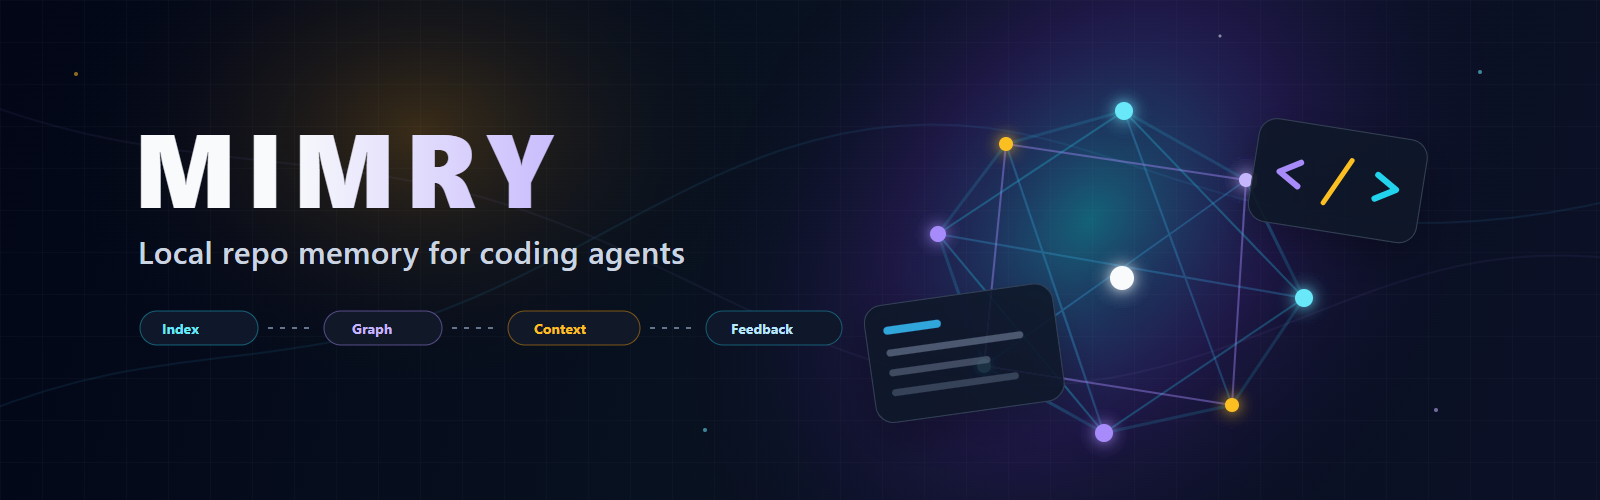
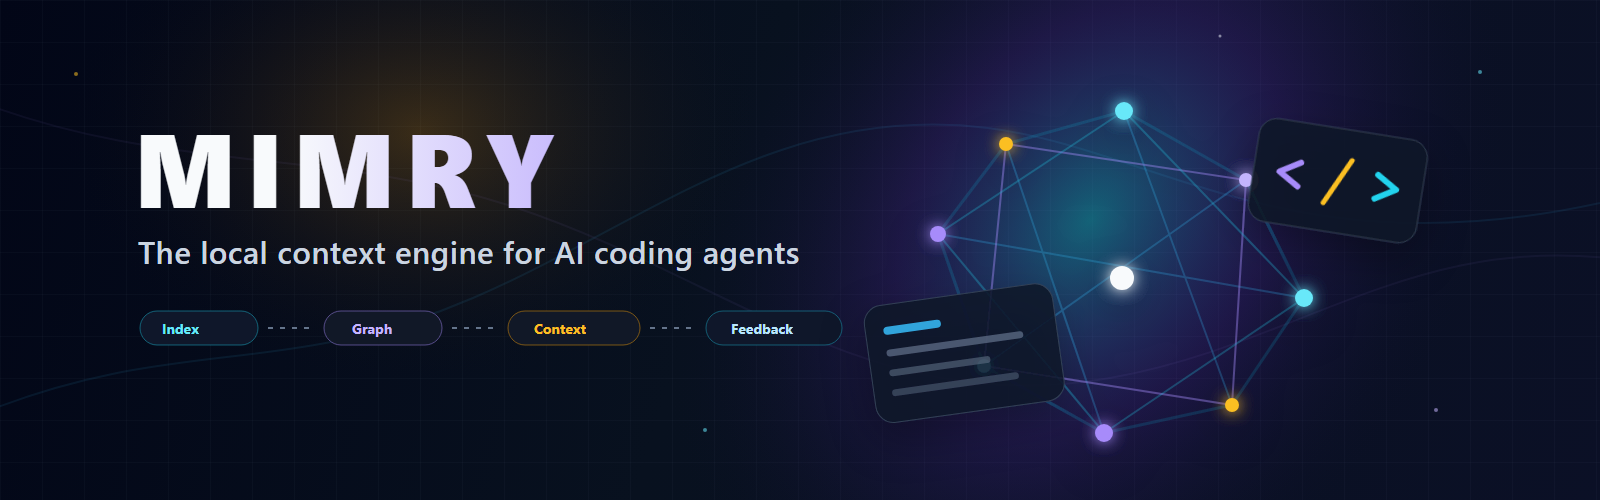
Introduce MIMRY as the local context engine for AI coding agents
The README, site, banner, PyPI summary, server.json, AUR package and plugin metadata now use the new tagline. The skill text is unchanged so existing installs stay current.

Part of #63

Changed region(s): [[0.0625, 0.48, 0.5, 0.54]]

diff --git a/site/index.html b/site/index.html
@@ -3,7 +3,7 @@
 <head>
 <meta charset="utf-8">
 <meta name="viewport" content="width=device-width, initial-scale=1">
-<title>MIMRY: local repo memory for AI coding agents</title>
+<title>MIMRY: the local context engine for AI coding agents</title>
 <meta name="description" content="MIMRY is a free, local CLI and MCP server that tells AI coding agents which files matter for a task. Ranked files, context packs and a code graph from your own repo. Install with uv tool install mimry.">
 <link rel="canonical" href="https://jbacalso24.github.io/mimry/">
 <meta name="google-site-verification" content="ZduZBC_Q0CTAzp5e7DwJC84TlEKnLSE44ITm3hVpD3A">
@@ -11,7 +11,7 @@
 <meta name="theme-color" content="#0E1828" media="(prefers-color-scheme: dark)">
 <meta property="og:type" content="website">
 <meta property="og:site_name" content="MIMRY">
-<meta property="og:title" content="MIMRY: local repo memory for AI coding agents">
+<meta property="og:title" content="MIMRY: the local context engine for AI coding agents">
 <meta property="og:description" content="Tell your coding agent which files matter. A local CLI and MCP server for Claude Code, Codex and other agents.">
 <meta property="og:url" content="https://jbacalso24.github.io/mimry/">
 <meta property="og:image" content="https://raw.githubusercontent.com/jbacalso24/mimry/main/assets/banner.png">
@@ -29,7 +29,7 @@ try { var t = localStorage.getItem("theme"); if (t === "light" || t === "dark") 
   "@type": "SoftwareApplication",
   "name": "MIMRY",
   "alternateName": "mimry",
-  "description": "Local repo memory for AI coding agents: a CLI and MCP server that ranks the files that matter for a task and writes context packs from your own codebase.",
+  "description": "The local context engine for AI coding agents: a CLI and MCP server that ranks the files that matter for a task and writes context packs from your own codebase.",
   "applicationCategory": "DeveloperApplication",
   "operatingSystem": "Windows, macOS, Linux",
   "url": "https://jbacalso24.github.io/mimry/",
@@ -342,7 +342,7 @@ footer nav { display: flex; flex-wrap: wrap; gap: 24px; }
     <h1>MIMRY tells your coding agent which files matter.</h1>
     <div class="hero-grid">
       <div>
-        <p class="lede">Local repo memory for Claude Code, Codex and other AI agents. Describe a task, get the files to read first.</p>
+        <p class="lede">The local context engine for Claude Code, Codex and other AI agents. Describe a task, get the files to read first.</p>
         <div class="install">
           <code id="install-cmd">uv tool install mimry</code>
           <button class="btn" type="button" data-copy="install-cmd">Copy</button>

diff --git a/src/mimry/plugin.py b/src/mimry/plugin.py
@@ -13,7 +13,7 @@ from . import __version__
 from .installer import _REFERENCES, hook_table, skill_body
 
 NAME = "mimry"
-DESCRIPTION = "Modular Intelligence Memory for Repos"
+DESCRIPTION = "The local context engine for AI coding agents"
 HOMEPAGE = "https://github.com/jbacalso24/mimry"
 PLUGIN_DIR = "plugins/mimry"
 
@@ -47,7 +47,7 @@ def plugin_files() -> dict[str, str]:
         ".claude-plugin/marketplace.json": _json(
             {
                 "name": NAME,
-                "description": "MIMRY: local repo memory for coding agents.",
+                "description": "MIMRY: the local context engine for coding agents.",
                 "owner": {"name": "Judison Bacalso"},
                 "plugins": [
                     {"name": NAME, "source": f"./{PLUGIN_DIR}", "description": DESCRIPTION}

diff --git a/README.md b/README.md
@@ -1,5 +1,5 @@
 <p align="center">
-  <img src="https://raw.githubusercontent.com/jbacalso24/mimry/main/assets/banner.png" alt="MIMRY - Local repo memory for coding agents" width="100%">
+  <img src="https://raw.githubusercontent.com/jbacalso24/mimry/main/assets/banner.png" alt="MIMRY - The local context engine for AI coding agents" width="100%">
 </p>
 
 <h1 align="center">MIMRY</h1>
@@ -7,7 +7,7 @@
 <!-- mcp-name: io.github.jbacalso24/mimry -->
 
 <p align="center">
-  Local repo memory for AI coding agents.
+  The local context engine for AI coding agents.
 </p>
 
 <p align="center">
